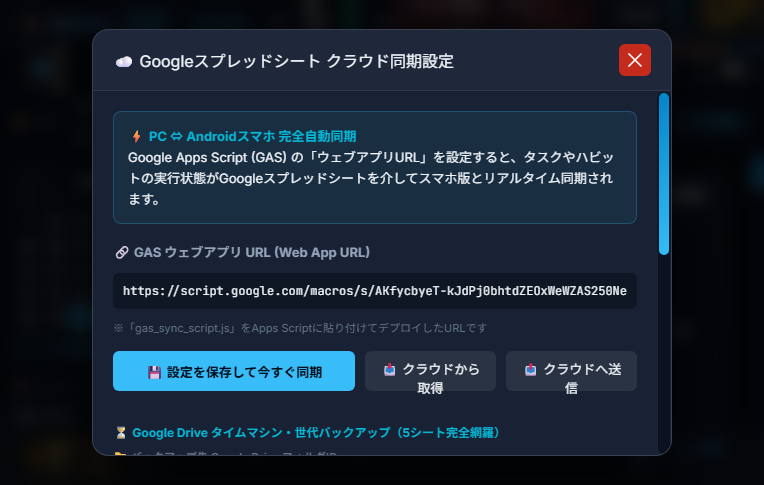
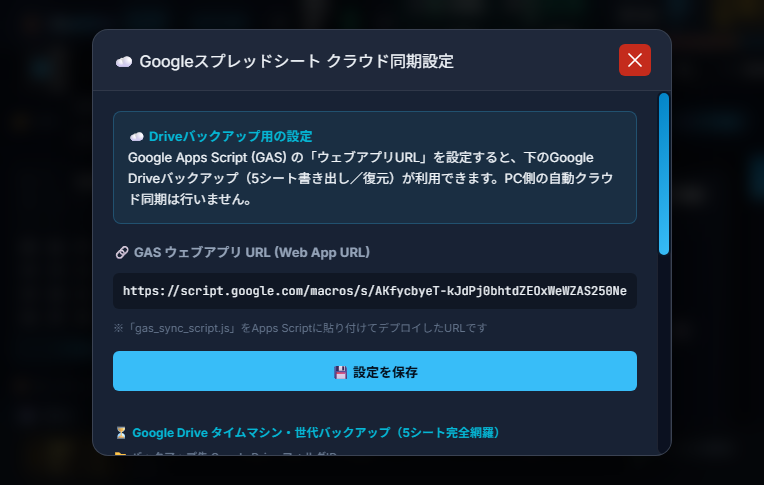
refactor: bump v1.9.22, retire sync-dependent tests, add v1.9.22 verification suite

Changed region(s): [[0.1806, 0.7113, 0.8429, 0.8351], [0.1505, 0.3093, 0.8128, 0.433], [0.1505, 0.2474, 0.4817, 0.3093]]

diff --git a/index.html b/index.html
@@ -3501,35 +3501,35 @@
     </div>
   </div>
 
-  <script src="js/config.js?v=1.9.21"></script>
-  <script src="js/services/profileMasterService.js?v=1.9.21"></script>
-  <script src="js/sampleData.js?v=1.9.21"></script>
-  <script src="js/utils/dateUtils.js?v=1.9.21"></script>
-  <script src="js/engine/recurrenceEngine.js?v=1.9.21"></script>
-  <script src="js/engine/statsEngine.js?v=1.9.21"></script>
-  <script src="js/engine/matrixEngine.js?v=1.9.21"></script>
-  <script src="js/engine/carryoverEngine.js?v=1.9.21"></script>
-  <script src="js/engine/etaEngine.js?v=1.9.21"></script>
-  <script src="js/engine/keyboardShortcuts.js?v=1.9.21"></script>
-  <script src="js/services/undoService.js?v=1.9.21"></script>
-  <script src="js/services/backupRestoreService.js?v=1.9.21"></script>
-  <script src="js/services/storageService.js?v=1.9.21"></script>
-  <script src="js/services/resumeNoteService.js?v=1.9.21"></script>
-  <script src="js/services/taskCloneHelper.js?v=1.9.21"></script>
-  <script src="js/services/taskTimerService.js?v=1.9.21"></script>
-  <script src="js/components/cardRenderers.js?v=1.9.21"></script>
-  <script src="js/components/modalService.js?v=1.9.21"></script>
-  <script src="js/components/taskPresetsService.js?v=1.9.21"></script>
-  <script src="js/components/dragAndDropService.js?v=1.9.21"></script>
-  <script src="js/views/calendarView.js?v=1.9.21"></script>
-  <script src="js/views/sectionView.js?v=1.9.21"></script>
-  <script src="js/views/focusView.js?v=1.9.21"></script>
-  <script src="js/views/allView.js?v=1.9.21"></script>
-  <script src="js/views/tableView.js?v=1.9.21"></script>
-  <script src="js/views/bucketView.js?v=1.9.21"></script>
-  <script src="js/views/goalsView.js?v=1.9.21"></script>
-  <script src="js/views/timerView.js?v=1.9.21"></script>
-  <script src="app.js?v=1.9.21"></script>
+  <script src="js/config.js?v=1.9.22"></script>
+  <script src="js/services/profileMasterService.js?v=1.9.22"></script>
+  <script src="js/sampleData.js?v=1.9.22"></script>
+  <script src="js/utils/dateUtils.js?v=1.9.22"></script>
+  <script src="js/engine/recurrenceEngine.js?v=1.9.22"></script>
+  <script src="js/engine/statsEngine.js?v=1.9.22"></script>
+  <script src="js/engine/matrixEngine.js?v=1.9.22"></script>
+  <script src="js/engine/carryoverEngine.js?v=1.9.22"></script>
+  <script src="js/engine/etaEngine.js?v=1.9.22"></script>
+  <script src="js/engine/keyboardShortcuts.js?v=1.9.22"></script>
+  <script src="js/services/undoService.js?v=1.9.22"></script>
+  <script src="js/services/backupRestoreService.js?v=1.9.22"></script>
+  <script src="js/services/storageService.js?v=1.9.22"></script>
+  <script src="js/services/resumeNoteService.js?v=1.9.22"></script>
+  <script src="js/services/taskCloneHelper.js?v=1.9.22"></script>
+  <script src="js/services/taskTimerService.js?v=1.9.22"></script>
+  <script src="js/components/cardRenderers.js?v=1.9.22"></script>
+  <script src="js/components/modalService.js?v=1.9.22"></script>
+  <script src="js/components/taskPresetsService.js?v=1.9.22"></script>
+  <script src="js/components/dragAndDropService.js?v=1.9.22"></script>
+  <script src="js/views/calendarView.js?v=1.9.22"></script>
+  <script src="js/views/sectionView.js?v=1.9.22"></script>
+  <script src="js/views/focusView.js?v=1.9.22"></script>
+  <script src="js/views/allView.js?v=1.9.22"></script>
+  <script src="js/views/tableView.js?v=1.9.22"></script>
+  <script src="js/views/bucketView.js?v=1.9.22"></script>
+  <script src="js/views/goalsView.js?v=1.9.22"></script>
+  <script src="js/views/timerView.js?v=1.9.22"></script>
+  <script src="app.js?v=1.9.22"></script>
 </body>
 </html>
 

diff --git a/tests/test_v197_runner.js b/tests/test_v197_runner.js
@@ -60,7 +60,7 @@
   const storedJson = JSON.parse(localStorage.getItem(STORAGE_KEYS.PRESETS) || '[]');
   assert("Test 4B: localStorage is updated with migrated full presets", storedJson.length >= 11, storedJson.length);
 
-  // Test 5: pullDataFromCloud defense against old cloud presets
+  // Test 5: mergeTaskPresetsDeep defense against old/foreign preset lists (cloud pull itself removed in v1.9.22)
   state.taskPresets = [...localWithCustom];
   localStorage.setItem(STORAGE_KEYS.PRESETS, JSON.stringify(state.taskPresets));
 
@@ -78,8 +78,8 @@
   state.taskPresets = mergeTaskPresetsDeep(state.taskPresets, cloudPresets);
   localStorage.setItem(STORAGE_KEYS.PRESETS, JSON.stringify(state.taskPresets));
 
-  assert("Test 5A: pullDataFromCloud defends custom preset against old cloud 6", state.taskPresets.some(p => p.id === 'custom_my_deep_work'));
-  assert("Test 5B: pullDataFromCloud maintains all 11 practical presets plus custom", state.taskPresets.length >= 12, state.taskPresets.length);
+  assert("Test 5A: mergeTaskPresetsDeep defends custom preset against old cloud 6", state.taskPresets.some(p => p.id === 'custom_my_deep_work'));
+  assert("Test 5B: mergeTaskPresetsDeep maintains all 11 practical presets plus custom", state.taskPresets.length >= 12, state.taskPresets.length);
 
   // Test 6: UI Interactivity & Preset Modal
   const btnPresets = document.getElementById('btn-task-presets');

diff --git a/js/config.js b/js/config.js
@@ -10,7 +10,7 @@
 // =========================================================================
 // 0. Application Version (Single Source of Truth)
 // =========================================================================
-const APP_VERSION = 'v1.9.21';
+const APP_VERSION = 'v1.9.22';
 const APP_VERSION_NAME = 'TaskChute Unified ETA Engine & Real-Time Remaining Pipeline';
 var DEFAULT_GAS_URL = 'https://script.google.com/macros/s/AKfycbyeT-kJdPj0bhtdZEOxWeWZAS250NeJd1NQAO4iUPytAJxh_r4iqm2jnmapODlc9eDbRA/exec';
 
